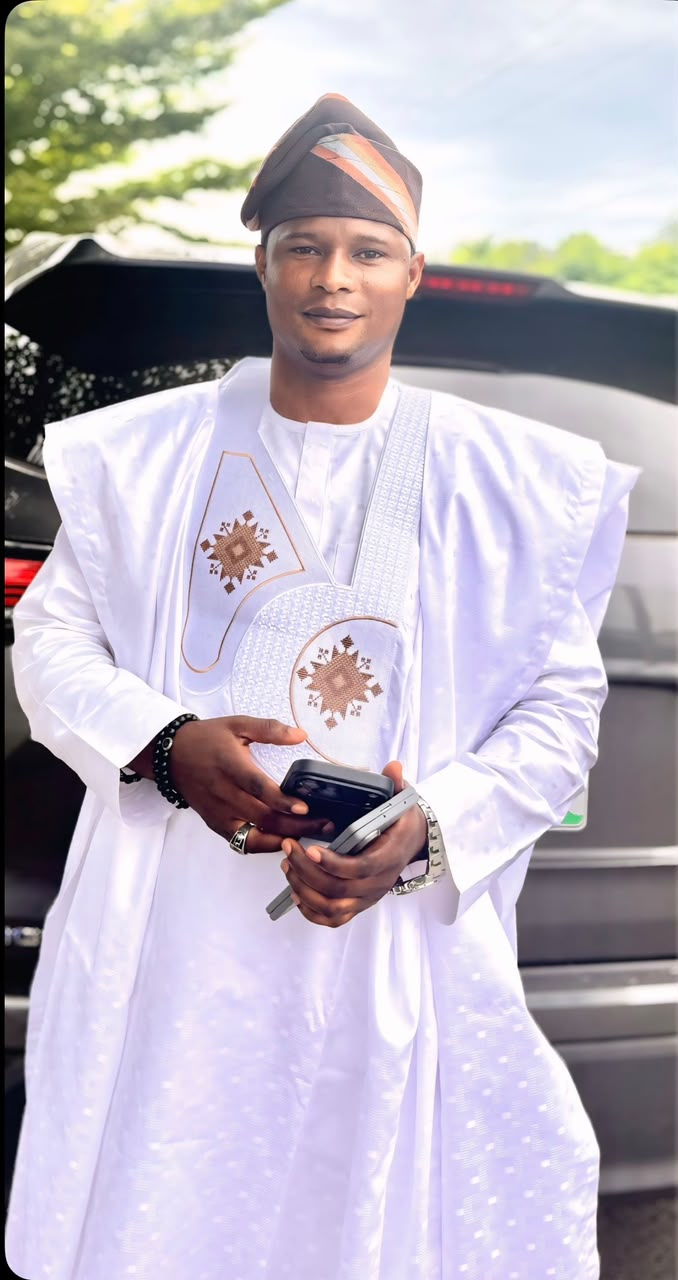
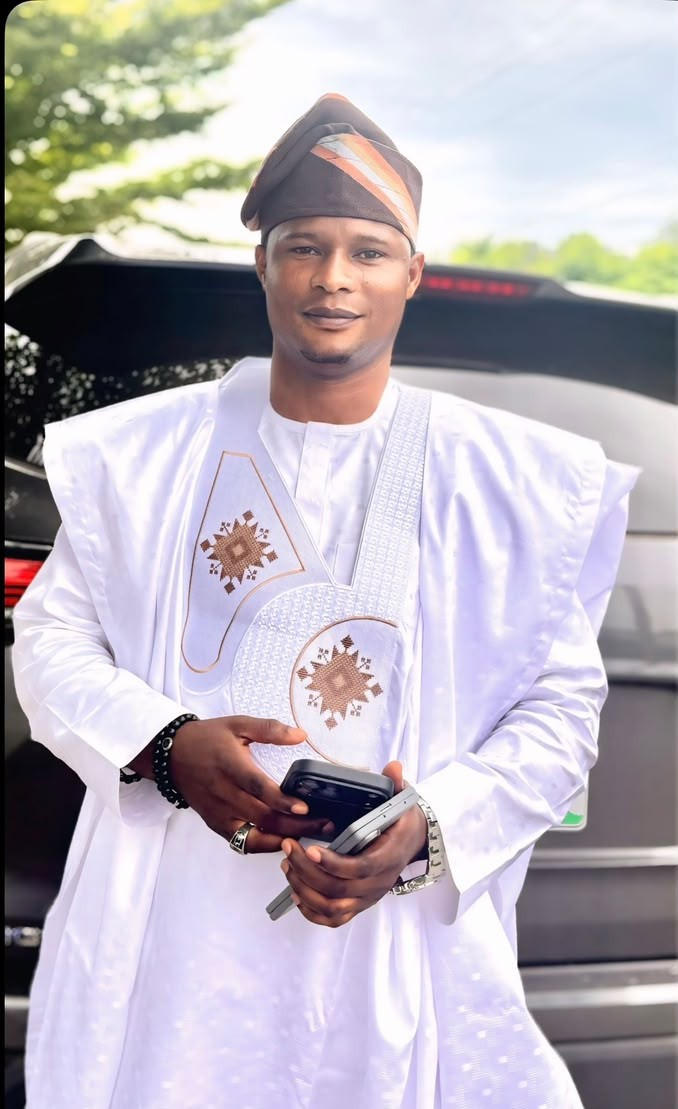
chnaghde

diff --git a/src/App.tsx b/src/App.tsx
@@ -2,7 +2,7 @@ import React, { useState, useEffect } from 'react';
 import { Menu, X, ChevronRight, Trophy, Briefcase, Heart, PlayCircle, MapPin, Mail, Phone, ArrowRight } from 'lucide-react';
 import { motion, AnimatePresence } from 'motion/react';
 import logoUrl from '../assets/alhajilogo.png';
-import heroImgUrl from '../assets/dokkahhero.jpeg';
+import heroImgUrl from '../assets/heroimg.jpeg';
 import meccaImgUrl from '../assets/alhmecca.jpeg';
 import clubImgUrl from '../assets/club.jpeg';
 import agbadaImgUrl from '../assets/alhagbada.jpeg';
@@ -21,6 +21,7 @@ import idkImgUrl from '../assets/idk.jpeg';
 import whiteImgUrl from '../assets/white.jpeg';
 import vid1Url from '../assets/vid.mp4';
 import vid2Url from '../assets/vid2.mp4';
+
 
 const fadeIn = {
   initial: { opacity: 0, y: 20 },
@@ -122,13 +123,15 @@ const Navbar = () => {
 const Hero = () => {
   return (
     <section className="relative min-h-screen flex items-center pt-20 overflow-hidden bg-[#121212]">
-      {/* Background Image */}
-      <div className="absolute inset-0 w-full h-full z-0">
+      {/* Right Side Image & Overlay */}
+      <div className="absolute top-0 right-0 w-full lg:w-[70%] h-full z-0 opacity-90 lg:opacity-100">
         <img
           src={heroImgUrl}
           alt="Alhaji Adamu Muhammad"
-          className="w-full h-full object-cover object-center"
+          className="w-full h-full object-cover object-[center_15%]"
         />
+        <div className="absolute inset-0 bg-[#121212]/20 lg:bg-transparent"></div>
+        <div className="absolute inset-0 bg-gradient-to-t from-[#121212] via-transparent to-transparent lg:bg-gradient-to-r lg:from-[#121212] lg:via-transparent lg:to-transparent"></div>
       </div>
 
       <div className="relative z-10 max-w-7xl mx-auto px-6 md:px-12 w-full grid grid-cols-1 lg:grid-cols-12 gap-12 items-center">
@@ -183,7 +186,7 @@ const About = () => {
           >
             <div className="aspect-[3/4] overflow-hidden">
               <img
-                src={whiteImgUrl}
+                src={agbadaImgUrl}
                 alt="Alhaji Adamu Muhammad Dokkal Khairu"
                 className="w-full h-full object-cover transition-all duration-700"
               />
@@ -250,8 +253,9 @@ const Pillars = () => {
       title: "Corporate & Gold Mining",
       subtitle: "Dokkal Khairu Nigeria Ltd",
       content: "Acting as the industrial mining engine fueling regional economic growth. We focus on ethical extraction, modernizing mining infrastructure in Osun State, and creating sustainable employment. Our corporate mandate prioritizes environmental stewardship alongside aggressive economic expansion, ensuring the region's wealth benefits its people.",
-      image: "https://images.unsplash.com/photo-1587582423116-ec07293f0395?q=80&w=2070&auto=format&fit=crop"
+      image: talkingImgUrl
     },
+
     {
       icon: <Trophy size={24} />,
       title: "Sports Leadership",